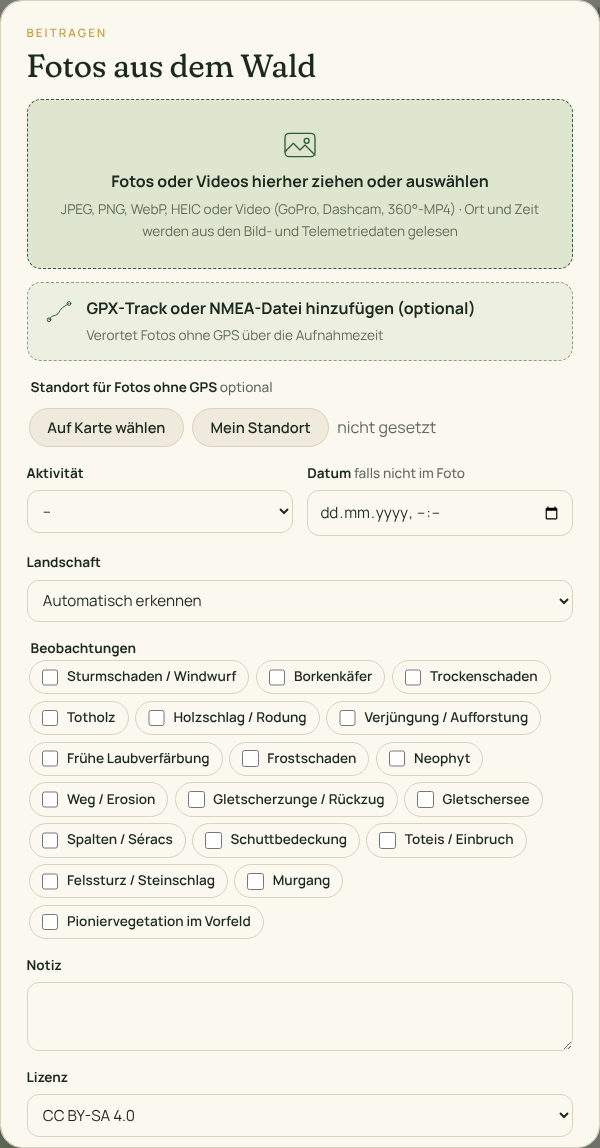
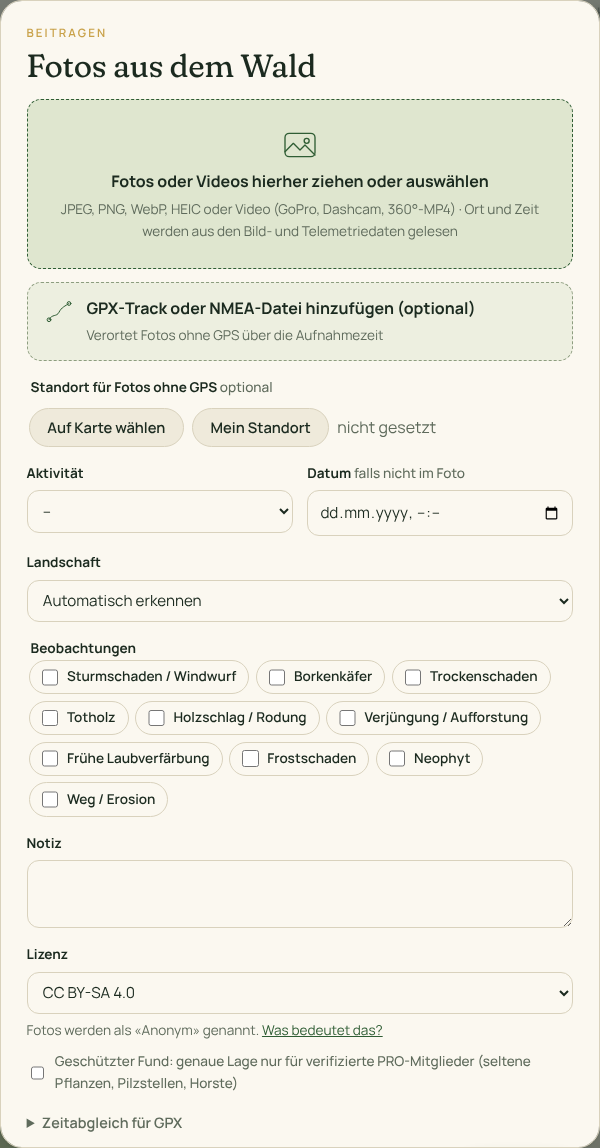
Landschaftsprofil Trockengebiet
Eigene Beobachtungen (Wanderdüne, Bodenerosion, Vegetationsverlust,
Überweidung, Versalzung), sandfarbener Marker, NDVI als Mass für den
Vegetationsverlust; gewählt beim Hochladen oder im Spot. Das
Upload-Formular zeigt bei automatischer Erkennung die Beobachtungen des
Waldes statt aller. Doku und Upload-Screenshot.

Claude-Session: https://claude.ai/code/session_012bz1FLvmWuukAtwFX91Rrd

diff --git a/public/style.css b/public/style.css
@@ -25,6 +25,7 @@
   --neo: #8650c8;
   --ice: #2f86b4;
   --rock: #8a6a4a;
+  --sand: #b0812f;
   --danger: #a8321f;
   --shadow: 0 1px 2px rgb(30 40 25 / 0.06), 0 12px 40px -12px rgb(30 40 25 / 0.25);
   --radius: 14px;
@@ -414,6 +415,7 @@ input[type="checkbox"] { accent-color: var(--accent); width: 1.05rem; height: 1.
 .dot.neo { background: var(--neo); }
 .dot.ice { background: var(--ice); }
 .dot.rock { background: var(--rock); }
+.dot.sand { background: var(--sand); }
 
 /* map pins */
 .pin-icon { background: none; border: none; }
@@ -432,6 +434,7 @@ input[type="checkbox"] { accent-color: var(--accent); width: 1.05rem; height: 1.
 .pin.neo { --c: var(--neo); }
 .pin.ok.land-gletscher { --c: var(--ice); }
 .pin.ok.land-gebirge { --c: var(--rock); }
+.pin.ok.land-trocken { --c: var(--sand); }
 .pin.damage::after, .pin.neo::after {
   content: ''; position: absolute; inset: -6px; border-radius: inherit;
   border: 2px solid var(--c); animation: pulse 2.4s ease-out infinite;
@@ -1493,7 +1496,7 @@ a.menu-item { display: flex; color: var(--text); text-decoration: none; font-siz
 }
 
 /* ---------- Landscapes and glaciers (glacier.js) ---------- */
-@media (prefers-color-scheme: dark) { :root { --ice: #6cb8e0; --rock: #c9a47e; } }
+@media (prefers-color-scheme: dark) { :root { --ice: #6cb8e0; --rock: #c9a47e; --sand: #e0b45e; } }
 .glacier-btn svg { stroke: var(--ice); fill: none; stroke-width: 1.6; stroke-linejoin: round; }
 .glacier-btn svg path:first-child { fill: color-mix(in srgb, var(--ice) 22%, transparent); }
 .glacier-btn[aria-pressed="true"] { border-color: var(--ice); color: var(--ice); }
@@ -1502,6 +1505,7 @@ a.menu-item { display: flex; color: var(--text); text-decoration: none; font-siz
 .land-badge { font-weight: 700; padding: 0.1rem 0.55rem; border-radius: 999px; background: color-mix(in srgb, var(--ok) 14%, transparent); color: var(--ok); }
 .land-badge.land-gletscher { background: color-mix(in srgb, var(--ice) 16%, transparent); color: var(--ice); }
 .land-badge.land-gebirge { background: color-mix(in srgb, var(--rock) 16%, transparent); color: var(--rock); }
+.land-badge.land-trocken { background: color-mix(in srgb, var(--sand) 16%, transparent); color: var(--sand); }
 .melt-chart .melt-line { fill: none; stroke: var(--rock); stroke-width: 2; stroke-linejoin: round; }
 .melt-chart .melt-dot { fill: var(--rock); stroke: var(--surface); stroke-width: 2; }
 .melt-trend { font-weight: 600; color: var(--rock); }

diff --git a/public/app.js b/public/app.js
@@ -1505,11 +1505,12 @@ async function stormNote(a, b, change, current) {
     $('upload-tags').append(el('label', { 'data-landscapes': where.join(' ') }, [el('input', { type: 'checkbox', value: key }), label]));
   }
   $('tag-filter').append(tagGroup);
-  // The upload offers the observations of the chosen landscape (all when it is recognised automatically).
+  // The upload offers the observations of the chosen landscape (those of the forest while it is recognised
+  // automatically; choosing a landscape shows its own).
   $('upload-landscape').addEventListener('change', () => {
-    const chosen = $('upload-landscape').value;
+    const chosen = $('upload-landscape').value || 'wald';
     for (const label of $('upload-tags').children) {
-      const fits = !chosen || label.dataset.landscapes.split(' ').includes(chosen);
+      const fits = !label.dataset.landscapes || label.dataset.landscapes.split(' ').includes(chosen);
       label.hidden = !fits;
       if (!fits) label.querySelector('input').checked = false;
     }

diff --git a/src/landscapes.js b/src/landscapes.js
@@ -10,6 +10,8 @@
  *              of late summer from the Sentinel-2 scene classification
  *   gebirge    mountains above the forest: rockfall, debris flows, avalanches,
  *              shrubs on alpine pastures; NDVI and when the snow melts
+ *   trocken    drylands, deserts: moving dunes, erosion, loss of plant cover;
+ *              NDVI (chosen at upload or by hand, never guessed)
  *
  * Tags are one vocabulary (src/tags.js); a profile lists the ones offered for
  * its spots. Tags shared by several profiles (paths, rockfall) are listed in each.
@@ -29,6 +31,10 @@ const LANDSCAPES = {
   gebirge: {
     label: 'Gebirge',
     tags: ['felssturz', 'murgang', 'lawine', 'rutschung', 'permafrost', 'verbuschung', 'neophyt', 'wegschaden'],
+  },
+  trocken: {
+    label: 'Trockengebiet',
+    tags: ['wanderduene', 'bodenerosion', 'vegetationsverlust', 'ueberweidung', 'versalzung', 'neophyt', 'wegschaden'],
   },
 };
 const DEFAULT_LANDSCAPE = 'wald';

diff --git a/public/vegetation.js b/public/vegetation.js
@@ -373,7 +373,7 @@
           class: 'hint',
           text: (state.spot.landscape || 'wald') === 'wald'
             ? 'Aus den Bildfarben geschätzt, bei ausgerichteten Fotos im gemeinsamen Bildausschnitt des Spots. Grün = Laub und Nadeln; Kronendach-Deckung = Anteil der oberen Bildhälfte ohne sichtbaren Himmel.'
-            : 'Aus den Bildfarben geschätzt, bei ausgerichteten Fotos im gemeinsamen Bildausschnitt des Spots. Grün = Pflanzen, die sich ansiedeln.',
+            : 'Aus den Bildfarben geschätzt, bei ausgerichteten Fotos im gemeinsamen Bildausschnitt des Spots. Grün = Pflanzen: wie sie sich ansiedeln oder verschwinden.',
         }));
       }
     }

diff --git a/test/glaciers.test.js b/test/glaciers.test.js
@@ -256,6 +256,10 @@ test('mountain spots: above the tree line without signs of forest', async () => 
     assert.equal((await (await patch(c.spotId, { elevation: 600 })).json()).landscape, 'wald');
     const config = await json(`${base}/api/config`);
     assert.ok(config.landscapes.gebirge.tags.includes('lawine'));
+    // Drylands only by choice.
+    const d = await upload(base, { lat: 30.1, lon: -2.1, takenAt: '2024-07-20T10:00:00Z', landscape: 'trocken', tags: 'wanderduene,sturmschaden' });
+    assert.equal((await json(`${base}/api/spots/${d.spotId}`)).landscape, 'trocken');
+    assert.deepEqual(d.tags, ['sturmschaden', 'wanderduene']);
   });
 });
 

diff --git a/src/tags.js b/src/tags.js
@@ -26,6 +26,12 @@ const TAGS = {
   rutschung: 'Rutschung / Hangmure',
   permafrost: 'Permafrost / Blockgletscher',
   verbuschung: 'Verbuschung der Alpweide',
+  // Drylands
+  wanderduene: 'Wanderdüne / Sandverwehung',
+  bodenerosion: 'Bodenerosion / Rinnen',
+  vegetationsverlust: 'Vegetationsverlust',
+  ueberweidung: 'Überweidung',
+  versalzung: 'Versalzung / Salzkruste',
 };
 
 const isTag = (t) => Object.prototype.hasOwnProperty.call(TAGS, t);

diff --git a/public/index.html b/public/index.html
@@ -119,6 +119,7 @@
         <span><i class="dot neo"></i>Neophyten</span>
         <span id="legend-ice" hidden><i class="dot ice"></i>Gletscher</span>
         <span id="legend-rock" hidden><i class="dot rock"></i>Gebirge</span>
+        <span id="legend-sand" hidden><i class="dot sand"></i>Trockengebiet</span>
       </div>
     </div>
     <section id="sunpanel" class="sunpanel" hidden aria-labelledby="sun-title">

diff --git a/public/glacier.js b/public/glacier.js
@@ -276,6 +276,7 @@
     const r = await baseLoadSpots(...args);
     $('legend-ice').hidden = !(state.spots || []).some((s) => s.landscape === 'gletscher');
     $('legend-rock').hidden = !(state.spots || []).some((s) => s.landscape === 'gebirge');
+    $('legend-sand').hidden = !(state.spots || []).some((s) => s.landscape === 'trocken');
     return r;
   };
 

diff --git a/docs/funktionen.md b/docs/funktionen.md
@@ -132,7 +132,8 @@ An Gletscher-Spots stehen andere Beobachtungen zur Wahl (siehe [Landschaften](#l
 Gletscherzunge/Rückzug, Gletschersee, Spalten/Séracs, Schuttbedeckung, Toteis/Einbruch,
 Felssturz/Steinschlag, Murgang, Pioniervegetation im Vorfeld und Weg/Erosion; an Gebirge-Spots
 Felssturz, Murgang, Lawine/Lawinenzug, Rutschung/Hangmure, Permafrost/Blockgletscher, Verbuschung der
-Alpweide, Neophyt und Weg/Erosion.
+Alpweide, Neophyt und Weg/Erosion; in Trockengebieten Wanderdüne/Sandverwehung, Bodenerosion/Rinnen,
+Vegetationsverlust, Überweidung, Versalzung/Salzkruste, Neophyt und Weg/Erosion.
 
 ### Installierbare App mit Offline-Upload
 
@@ -568,16 +569,18 @@ Veränderungen und die Geschichte, die der Satellit erzählt. Dafür hat jeder S
 | **Wald** (Standard) | Sturmschaden, Borkenkäfer, Trockenschaden, Totholz, Holzschlag, Verjüngung, frühe Verfärbung, Frost, Neophyt, Weg | Windwurf, Auflichtung, Verfärbung, neuer Bewuchs | NDVI, NDMI, Frühwarnung |
 | **Gletscher** | Gletscherzunge/Rückzug, Gletschersee, Spalten, Schuttbedeckung, Toteis, Felssturz, Murgang, Pioniervegetation, Weg | nur «Veränderung», ohne Waldklassen | Eis im Spätsommer |
 | **Gebirge** | Felssturz, Murgang, Lawine, Rutschung, Permafrost, Verbuschung der Alpweide, Neophyt, Weg | nur «Veränderung», ohne Waldklassen | NDVI, NDMI und Schneeschmelze |
+| **Trockengebiet** | Wanderdüne, Bodenerosion, Vegetationsverlust, Überweidung, Versalzung, Neophyt, Weg | nur «Veränderung», ohne Waldklassen | NDVI, NDMI (Vegetationsverlust, Frühwarnung) |
 
 So kommt ein Spot zu seinem Profil:
 
 - **Beim Hochladen** wählt man unter *Landschaft* ein Profil oder lässt es *automatisch erkennen*. Das
-  Formular zeigt dann nur die Beobachtungen dieses Profils.
+  Formular zeigt dann nur die Beobachtungen dieses Profils, bei *automatisch* die des Waldes.
 - **Automatisch**: Liegt ein neuer Spot auf dem Eis eines Gletscherinventars, in einem früheren Inventar
   oder höchstens 500 m vom Eis des neusten Inventars entfernt, wird er ein Gletscher-Spot (Gletscherumrisse
   siehe unten). Liegt ein Spot über 2100 m ü. M. (`GEBIRGE_AB_M`) und gibt es dort keine Baumarten und keine
   Wald-Beobachtungen, wird er ein Gebirge-Spot, sobald seine Höhe bekannt ist (Höhenmodell oder von Hand);
-  ein Lärchenwald an der Waldgrenze bleibt Wald. Sonst bleibt ein Spot ohne Wahl ein Wald-Spot.
+  ein Lärchenwald an der Waldgrenze bleibt Wald. Trockengebiete erkennt die App nicht selbst; sie werden
+  beim Hochladen oder im Spot gewählt. Sonst bleibt ein Spot ohne Wahl ein Wald-Spot.
 - **Von Hand**: Im Spot steht unter den Koordinaten das Profil mit seiner Herkunft (*Standard*, *beim
   Hochladen gewählt*, *erkannt an den Gletscherumrissen*, *von Hand gesetzt*); *ändern* setzt es neu,
   *automatisch* lässt es wieder bestimmen.
@@ -595,8 +598,15 @@ Ausserhalb des Waldes:
 - fallen Herbstfärbung, Baumarten und die Kronendach-Deckung weg; der Grünanteil der Fotos bleibt (er
   zeigt, wie Pflanzen ein Gletschervorfeld besiedeln).
 
-Auf der Karte haben Gletscher-Spots einen blauen, Gebirge-Spots einen braunen Marker; der Filter oben links
-hat eine Gruppe *Landschaft*.
+Auf der Karte haben Gletscher-Spots einen blauen, Gebirge-Spots einen braunen und Spots in Trockengebieten
+einen sandfarbenen Marker; der Filter oben links hat eine Gruppe *Landschaft*.
+
+**Trockengebiete**: Dort bleiben NDVI und NDMI aus Sentinel-2 (ausserhalb Europas ebenfalls verfügbar) das
+Mass für Vegetationsverlust und Wüstenbildung; die Frühwarnung meldet einen Rückgang gegenüber denselben
+Monaten der Vorjahre. Wetter und Normalwerte kommen weltweit von Open-Meteo. Die Schweizer Dienste
+(Kanton, Wildruhezonen, Landeskarte) greifen dort nicht. Grenzen: Auf wandernden Dünen fehlen feste
+Bezugspunkte, die automatische Ausrichtung braucht Fels, Bauten oder den Horizont im Bild; ohne sie bleibt
+das Foto unausgerichtet und wird nur nebeneinander verglichen.
 
 ### Gletscherumrisse
 

diff --git a/docs/api.md b/docs/api.md
@@ -9,7 +9,7 @@ Alle Routen liefern und erwarten JSON, sofern nicht anders angegeben. Den Aufbau
 | `GET`    | `/api/spots?tag=…`           | Alle Spots mit Anzahl Fotos, Zeitraum, Tags, Blickrichtung (`heading`), Landschaft (`landscape`) und Vorschaubild (`latestThumbUrl`) |
 | `GET`    | `/api/spots/:id`             | Ein Spot mit Blickrichtung, Landschaft (`landscape`, `landscapeSource`: `upload`, `auto`, `manual` oder `null`) und allen Fotos chronologisch (jedes Foto mit `url`, `thumbUrl` und `largeUrl`, `archive` für Archivfotos, `panorama` für 360°-Bilder und `alignment`: bei Fotos die Homographie `h`, bei Panoramen `kind: 'rotation'` mit der Drehung `r`, `yaw` und `tilt`) |
 | `GET`    | `/thumbs/:datei`             | Vorschaubilder (WebP)                                    |
-| `POST`   | `/api/photos`                | Upload (multipart: `photos[]` als JPEG, PNG, WebP oder HEIC, optional `spotId` und `refPhotoId` für Wiederholungsfotos, `requestId` für einen Fotoauftrag, `sequenceId` für Bilder einer Aufnahme (Fahrt, Upload mit mehreren Fotos), `landscape` (`wald`, `gletscher`, `gebirge`) für das Landschaftsprofil eines neuen Spots, `archive=1` mit `spotId` und `takenAt` für ein Archivfoto (Datum von Hand, am Spot verortet), `protected=1` für einen geschützten Fund, `license`, `gpx`, `lat`/`lon`, `takenAt`, `tags`, `activity` (`joggen`, `wandern`, `biken`, `fahren`, `sonstiges`), `heading` (Blickrichtung in Grad, wenn das Foto keine im EXIF hat), `note`, `utcOffsetMinutes`, `clockShiftSeconds`). Mit `activity=fahren` (Fahrtmodus) wird pro Konto und Ort innerhalb von 12 Stunden nur ein Bild gespeichert, weitere stehen in `skipped` |
+| `POST`   | `/api/photos`                | Upload (multipart: `photos[]` als JPEG, PNG, WebP oder HEIC, optional `spotId` und `refPhotoId` für Wiederholungsfotos, `requestId` für einen Fotoauftrag, `sequenceId` für Bilder einer Aufnahme (Fahrt, Upload mit mehreren Fotos), `landscape` (`wald`, `gletscher`, `gebirge`, `trocken`) für das Landschaftsprofil eines neuen Spots, `archive=1` mit `spotId` und `takenAt` für ein Archivfoto (Datum von Hand, am Spot verortet), `protected=1` für einen geschützten Fund, `license`, `gpx`, `lat`/`lon`, `takenAt`, `tags`, `activity` (`joggen`, `wandern`, `biken`, `fahren`, `sonstiges`), `heading` (Blickrichtung in Grad, wenn das Foto keine im EXIF hat), `note`, `utcOffsetMinutes`, `clockShiftSeconds`). Mit `activity=fahren` (Fahrtmodus) wird pro Konto und Ort innerhalb von 12 Stunden nur ein Bild gespeichert, weitere stehen in `skipped` |
 | `POST`   | `/api/videos`                | Video-Upload (GPS aus GoPro-Telemetrie oder der Dashcam: NMEA bzw. Novatek `freeGPS`, sonst `gpx`; `video.track` im Ergebnis: `gpmf`, `nmea`, `novatek`, `gpx` oder `manual`) (multipart: `video`, optional `gpx` (GPX oder NMEA), `lat`/`lon`, `takenAt`, `tags`, `activity`, `note`, `clockShiftSeconds`, `frameDistanceM`, `frameIntervalS`, `panorama` = `auto`/`1`/`0`, `landscape`, `async=1` für Hintergrundverarbeitung) |
 | `GET`    | `/api/videos/jobs/:id`       | Fortschritt und Ergebnis eines Video-Uploads mit `async=1` |
 | `GET`    | `/api/videos/config`         | ffmpeg verfügbar? Standardabstand und -intervall         |

diff --git a/README.md b/README.md
@@ -128,7 +128,8 @@ Dashcams (GPS direkt aus der Datei: NMEA, Novatek) oder 360°-Kameras, aus denen
 werden. Ort und Zeit kommen aus den EXIF- bzw.
 Telemetriedaten. Fotos ohne GPS lassen sich über einen GPX-Track verorten (dafür gibt es unter
 *Zeitabgleich für GPX* Zeitzone und Korrektur für die Kamera-Uhr) oder von Hand auf der Karte bzw. über
-den aktuellen Standort. Dazu kommen Aktivität, Landschaft (Wald, Gletscher oder automatisch erkannt; sie
+den aktuellen Standort. Dazu kommen Aktivität, Landschaft (Wald, Gletscher, Gebirge, Trockengebiet oder
+automatisch erkannt; sie
 bestimmt, welche Beobachtungen zur Wahl stehen), Beobachtungen, eine Notiz und die Lizenz (Standard
 CC BY-SA 4.0). Als installierte App landen Uploads ohne Empfang in einer Warteschlange und gehen später raus;
 lehnt der Server einen davon ab, während die App zu ist, meldet das eine Benachrichtigung.
@@ -331,7 +332,9 @@ von 1928 neben 2025.
 Spots über 2100 m ohne Baumarten werden **Gebirge**-Spots (brauner Marker) mit Beobachtungen wie Felssturz,
 Murgang, Lawine, Rutschung, Permafrost und Verbuschung der Alpweide. Ihr Teil *Schnee* zeigt pro Jahr, in
 welchem Monat der Schnee schmilzt, und vergleicht die ersten mit den letzten Jahren, hier eine Alpweide, die
-heute rund sechs Wochen früher aper ist und auf der Grünerlen einwachsen.
+heute rund sechs Wochen früher aper ist und auf der Grünerlen einwachsen. Für **Trockengebiete** gibt es ein
+eigenes Profil (Wanderdüne, Bodenerosion, Vegetationsverlust, Überweidung, Versalzung), gewählt beim Hochladen;
+dort meldet der NDVI den Verlust an Vegetation.
 
 ## Was MyForrest kann
 
@@ -353,8 +356,8 @@ Ein kurzer Überblick. Alle Details, auch zu den verwendeten Verfahren, stehen u
   Landsat) als unabhängige Bestätigung und als Frühwarnung für Spots ohne neue Fotos, deren Schwellen sich an
   bestätigten Schäden eichen (getrennt für Laub- und Nadelwald) und an zurückgehaltenen Spots geprüft werden,
   als Push-Nachricht an alle, die den Spot regelmässig besuchen.
-- **[Landschaften und Gletscher](docs/funktionen.md#landschaften-und-gletscher)**: Profile für Wald, Gletscher und
-  Gebirge mit eigenen Beobachtungen; Gletscherumrisse aus Inventaren (z. B. GLAMOS) pro Jahr, Eis im Spätsommer
+- **[Landschaften und Gletscher](docs/funktionen.md#landschaften-und-gletscher)**: Profile für Wald, Gletscher,
+  Gebirge und Trockengebiet mit eigenen Beobachtungen; Gletscherumrisse aus Inventaren (z. B. GLAMOS) pro Jahr, Eis im Spätsommer
   und Schneeschmelze aus Sentinel-2, Archivfotos mit Datum von Hand.
 - **[Kartenmodi](docs/funktionen.md#kartenmodi)**: Sonnenstand, Schatten und Einstrahlung inklusive
   Geländehorizont sowie Hotspots und Ausbreitungsfronten von Neophyten.

diff --git a/docs/roadmap.md b/docs/roadmap.md
@@ -25,9 +25,9 @@ Was als Nächstes geplant ist. Was der Prototyp heute schon kann, steht unter
   Aufzeichnung im Hintergrund (braucht eine native Hülle, Browser stoppen GPS im Hintergrund),
   Benachrichtigung, wenn ein eigener Fotoauftrag erledigt wurde, Ablaufdatum für Aufträge.
 
-- **Weitere Landschaften**: Profil *Trockengebiet* (Wanderdünen, Bodenerosion; Ausrichtung auf Fels und
-  Horizont statt auf Bäume, längere Offline-Zeiten); im Gebirge Routing mit SAC-Skala und Gefahrenkarten
-  (Steinschlag, Lawinen); Name der App für mehr als den Wald.
+- **Landschaften ausbauen**: im Trockengebiet Ausrichtung am Horizont, wo Dünen keine festen Punkte haben,
+  und längere Offline-Zeiten; im Gebirge Routing mit SAC-Skala und Gefahrenkarten (Steinschlag, Lawinen);
+  ein Name der App für mehr als den Wald.
 - **Gletscher ausbauen**: Längenänderung der Zunge aus den GLAMOS-Messreihen am Spot zeigen; schuttbedecktes
   Eis mit einem eigenen Index (z. B. NDSI und Temperatur) erkennen; Archivbilder aus Sammlungen mit offener
   Lizenz (z. B. ETH-Bibliothek) als Vorschlag am passenden Standort anbieten.
@@ -77,7 +77,7 @@ Aus früheren Versionen dieser Roadmap:
 - Video statt Einzelbilder (GoPro mit GPMF, 360°-MP4, GPX), unscharfe Bilder werden ersetzt oder verworfen
 - 360°-Fotos beim Upload erkennen, Panoramen über eine Drehung der Kugel ausrichten und vergleichen
 - Durchgehen wie Street View: Pfeile entlang der Aufnahme und zu Spots in der Nähe, Blickrichtung bleibt beim Schritt
-- Landschaftsprofile Gletscher und Gebirge: Umrisse aus Gletscherinventaren pro Jahr, Eis im Spätsommer und
+- Landschaftsprofile Gletscher, Gebirge und Trockengebiet: Umrisse aus Gletscherinventaren pro Jahr, Eis im Spätsommer und
   Schneeschmelze aus Sentinel-2, Archivfotos mit Datum von Hand, Beobachtungen und Auswertung je Landschaft
 - Spots mit gemischten Blickrichtungen auf Wunsch aufteilen
 - Karte und Spots entlang einer Route offline speichern; Benachrichtigung, wenn ein Upload im Hintergrund
